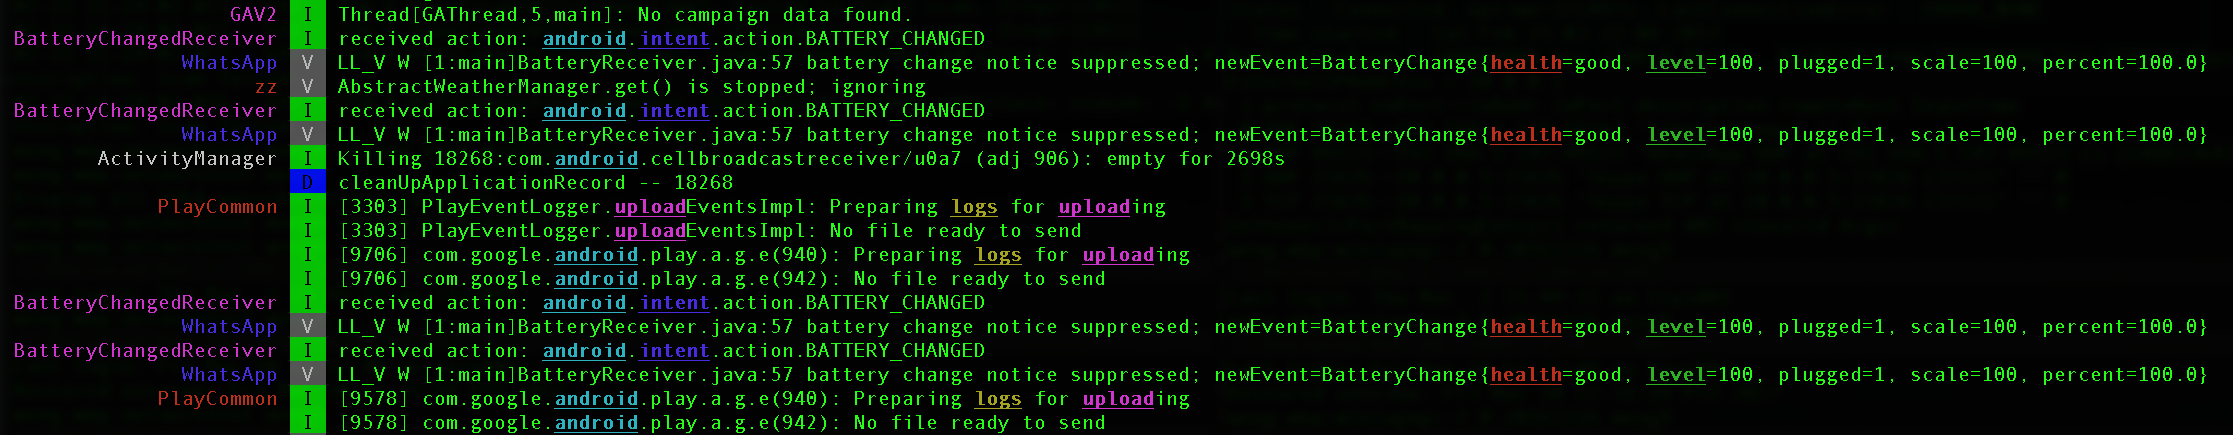
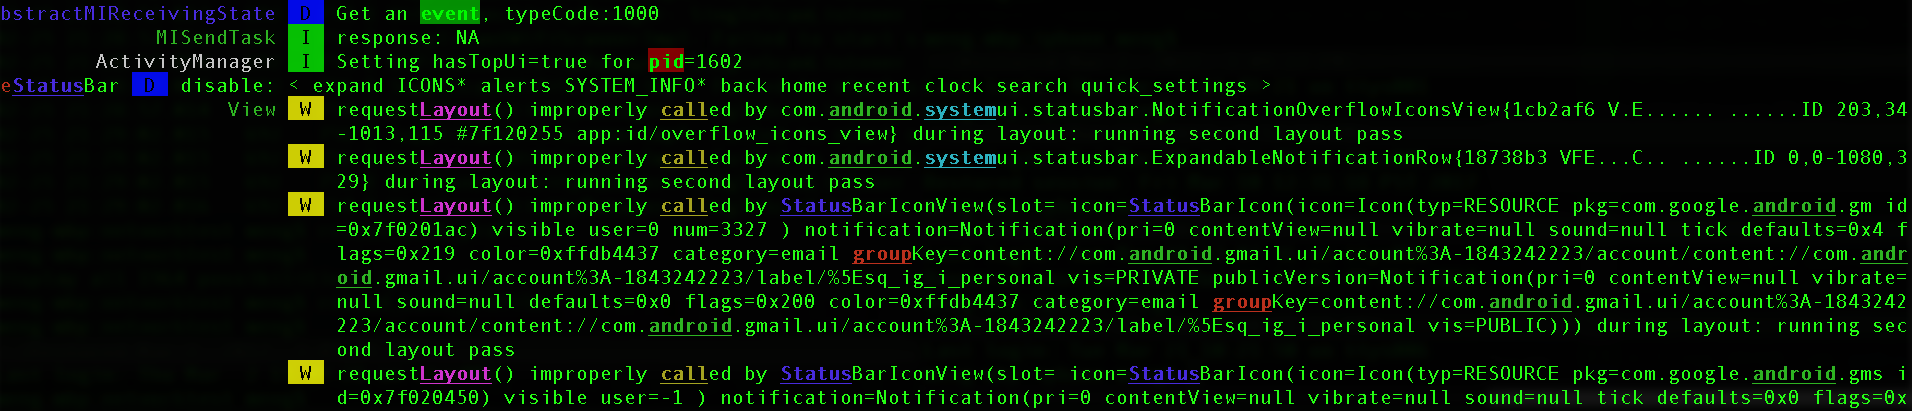
Update document

Changed region(s): [[0.0, 0.0, 1.0, 1.0], [0.9566, 0.5839, 1.0, 0.6423], [0.9257, 0.3504, 0.9874, 0.4088]]

diff --git a/README.md b/README.md
@@ -1,10 +1,11 @@
 PID Cat (extended)
 ==================
 
-An update to Jake Wharton's excellent [pidcat][1] which filters `adb` result by application package name.
-
+An update to Jake Wharton's excellent [pidcat][1] which filters `adb`
+result by application package name.
+```bash
     pidcat com.oprah.bees.android
-
+```
 On top of this, this fork will mainly provide these additional features
  * `--timestamp`: add timestamp at the front of each line
  * `--grep`, `--hl`, `--grepv`: grep, highlight or exclude lines. These options particularly consider the line cutting issue in `pidcat`. This script will grep lines before `pidcat` cuts the original `adb` output line so as to not miss any lines in grepping. Moreover, you can specify different colors for each word in these options, which is very helpful in checking different word terms in massive log in sophisticated debugging. Corresponding case-ignored options are also provided: `--igrep`, `--ihl`, `--igrev`
@@ -16,16 +17,16 @@ On top of this, this fork will mainly provide these additional features
                         com.testapp``. [`h`][2] is a keyword highlighting utility. The option needs the current terminal width provided as the parameter, which is easy to get in shell using command `` `tput cols` ``.
 
 Here is an example of the output of the following command:
-
+```bash
     pidcat --timestamp --ihl="oslog\|logs\|sensor\\cyan\|queuebatch\\bg_blue\|state\\white\|latency\\bg_green\|enable\\magenta" --hl="screen\\yellow\|far\\bg_yellow\|event\\bg_ack"
-
+```
 ![Example screen](screen.png)
 
 Another example using pipe mode with 3rd-party [`h`][2] tool:
-
-    adb logcat | h health level logs intent upload android | pidcat --pipe=`tput cols`
-
-![Example screen](screen.png)
+```bash
+    adb logcat | h group android call Status Layout system pid event | pidcat --pipe=`tput cols`
+```
+![Example screen](screen2.png)
 
 You could notice that
  * The words are highlighted in specified colors, even the cut words due to line wrapping (`--hl`);
@@ -116,10 +117,10 @@ not work unless this is that case. That means, when you type `adb` and press
 enter into your terminal something actually happens.
 
 To include `adb` and other android tools on your path:
-
+```bash
     export PATH=$PATH:<path to Android SDK>/platform-tools
     export PATH=$PATH:<path to Android SDK>/tools
-
+```
 Include these lines in your `.bashrc`, `.zshrc` or `.bash_profile`.
 
 *Note:* `<path to Android SDK>` should be absolute and not relative.
